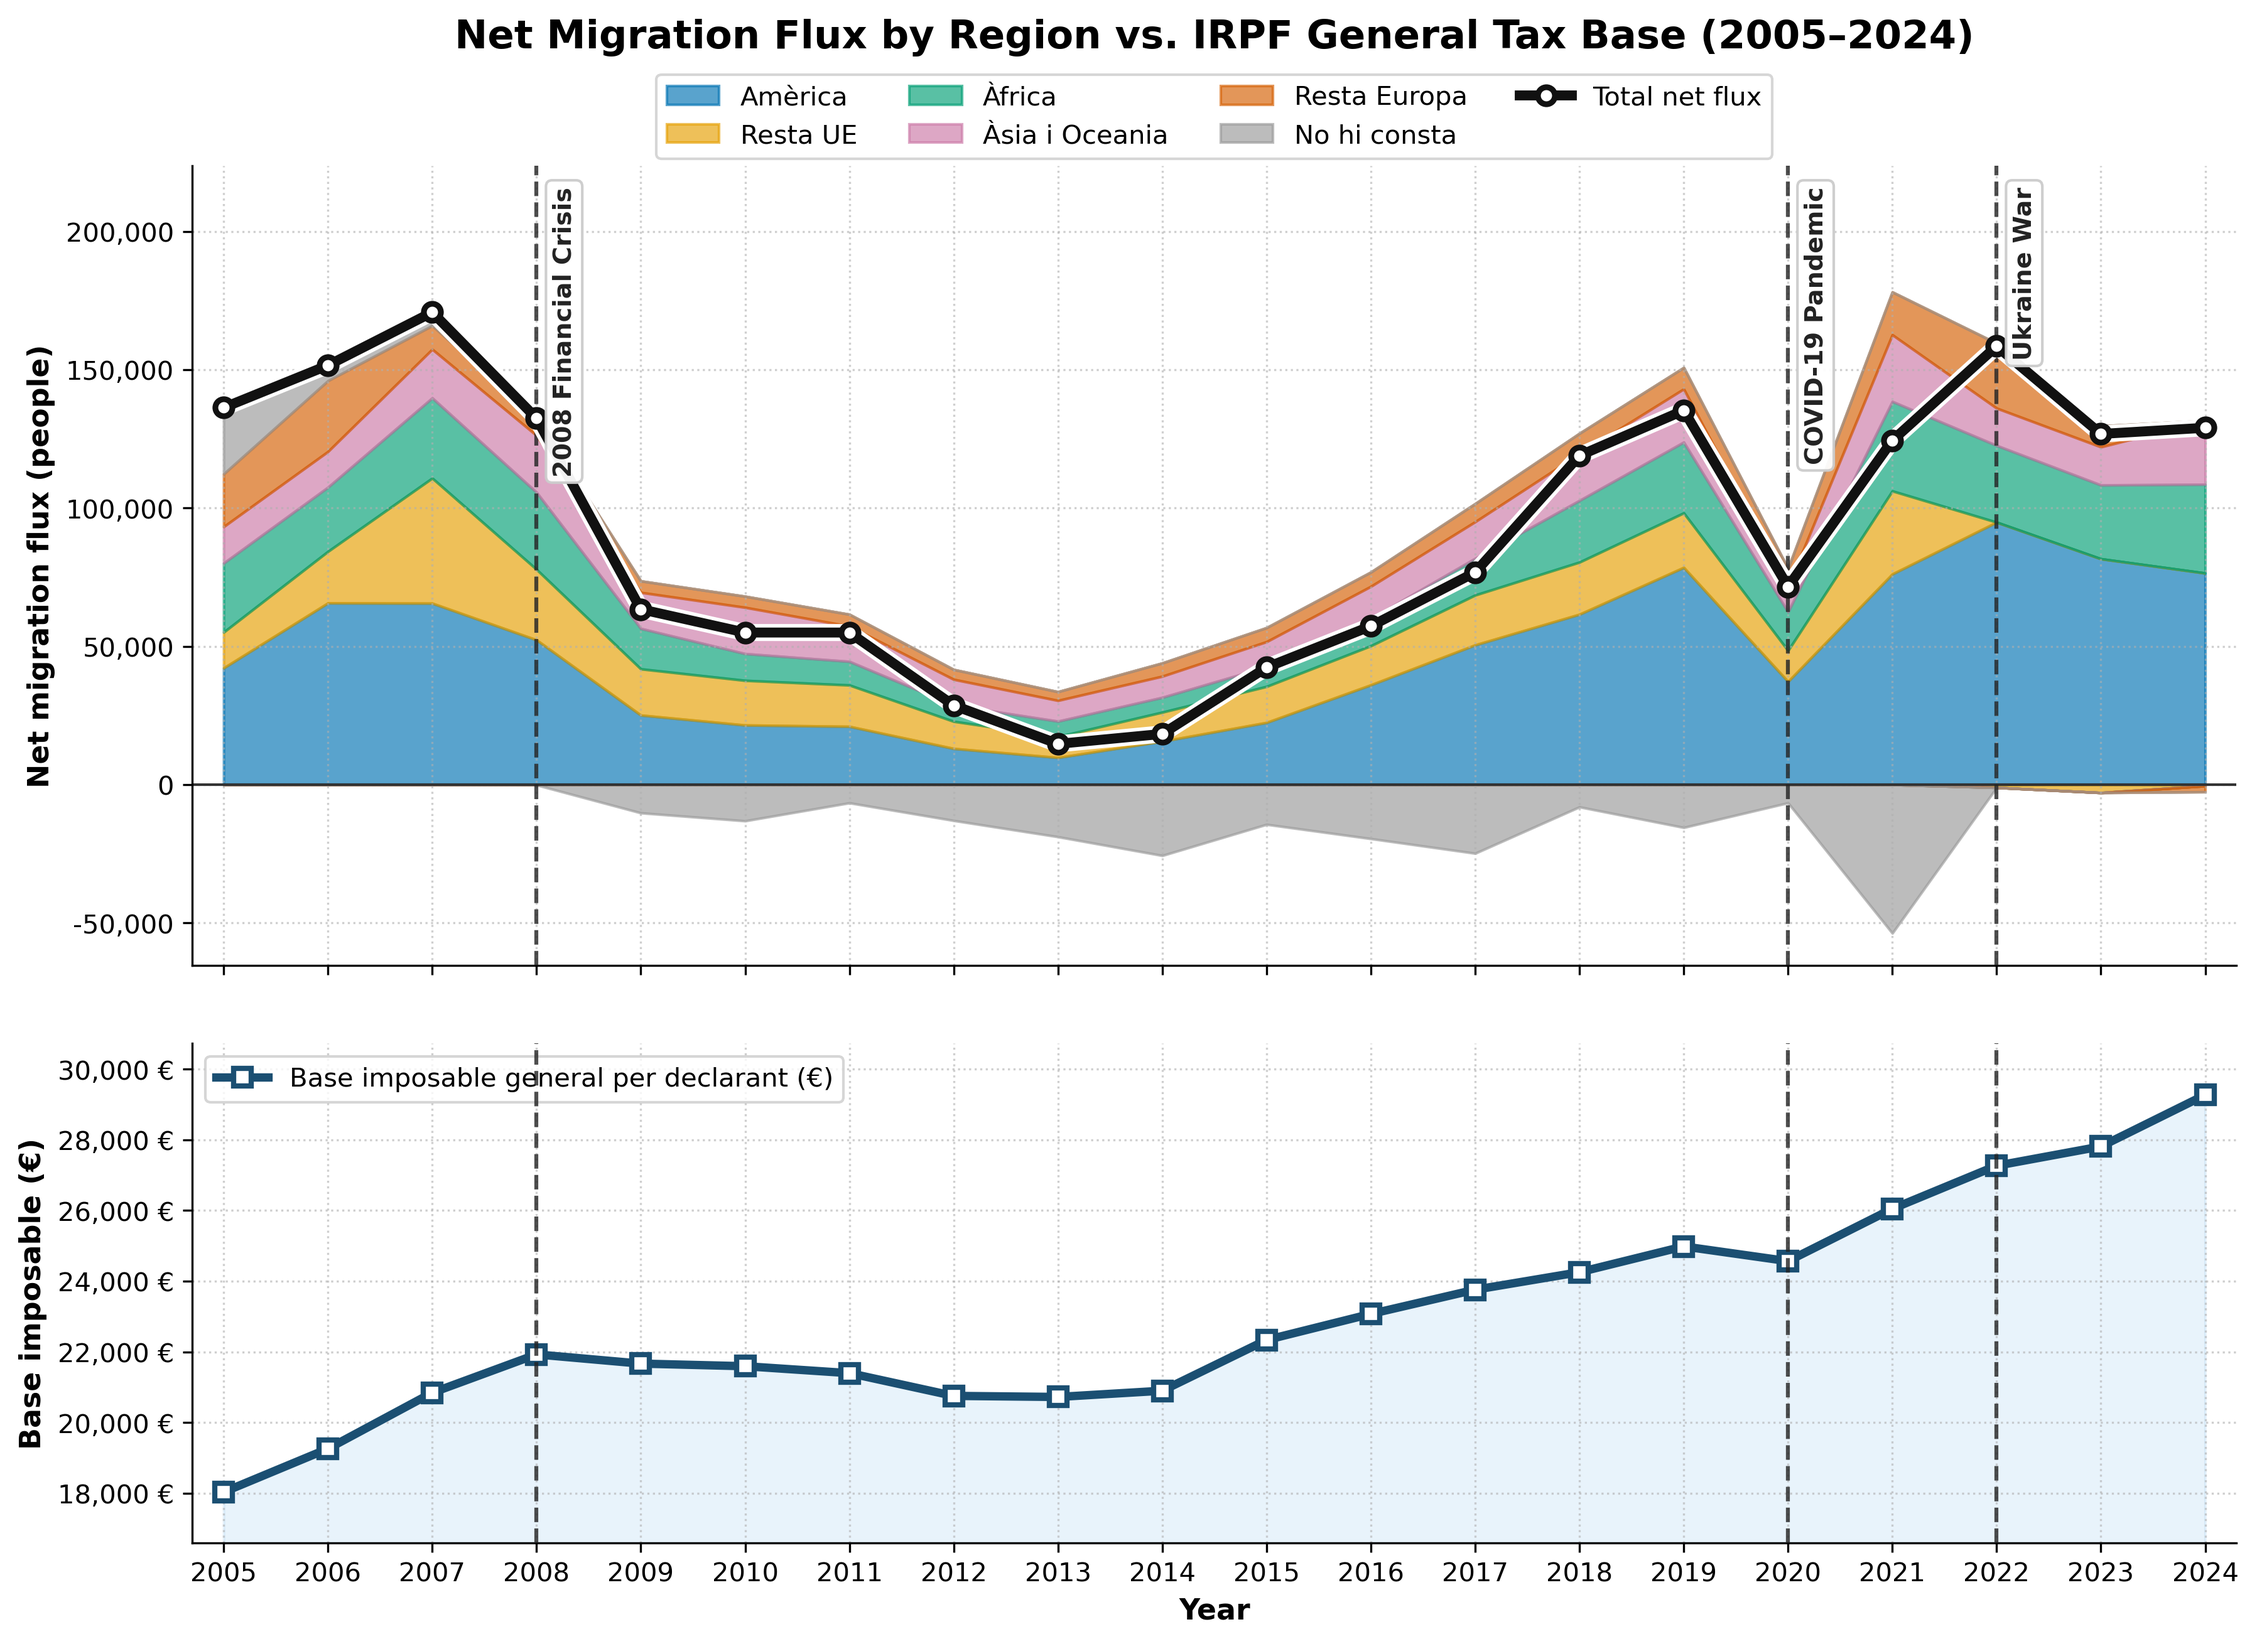
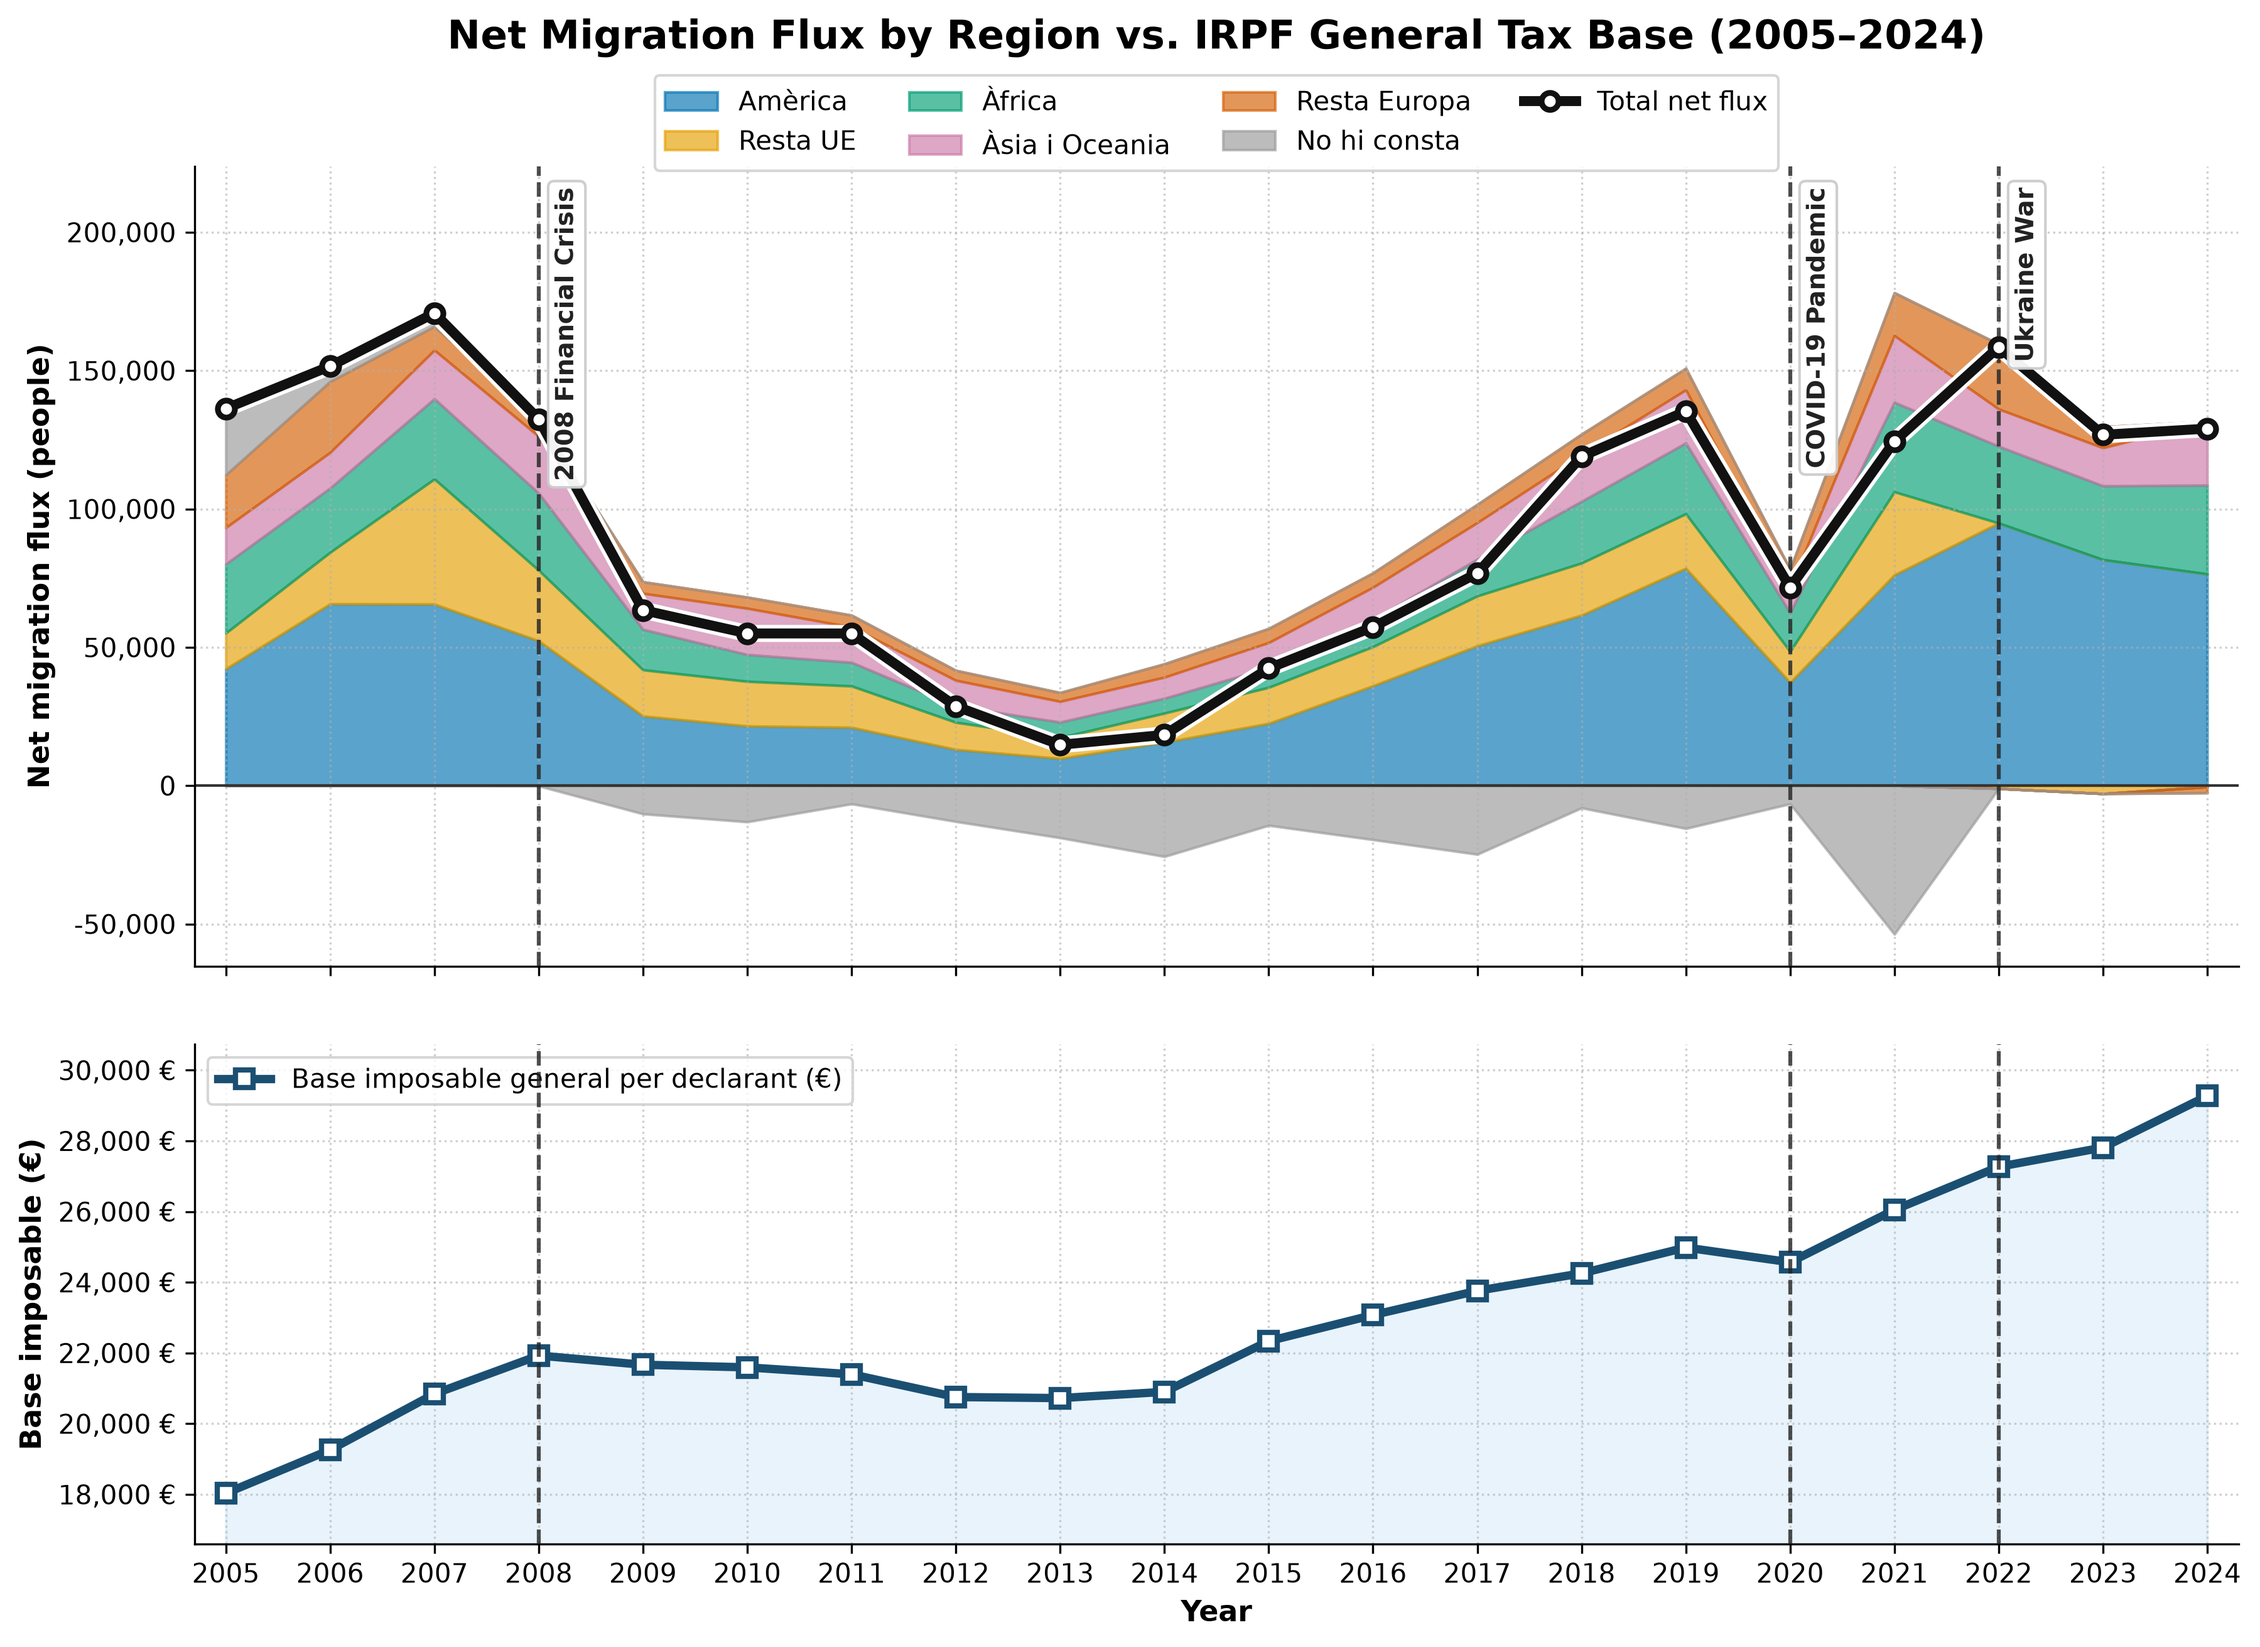
Corrected some pathways into the codes

diff --git a/scripts/composicio_edat_sexe.py b/scripts/composicio_edat_sexe.py
@@ -2,7 +2,7 @@ import os
 import pandas as pd
 
 # 1. Ruta exacta del teu projecte on es guardarà el fitxer
-carpeta_desti = r"/data/raw/demografia"
+carpeta_desti = r"data/raw/demografia"
 
 # Ens assegurem que la carpeta existeixi (si no existeix, la crea automàticament)
 os.makedirs(carpeta_desti, exist_ok=True)
